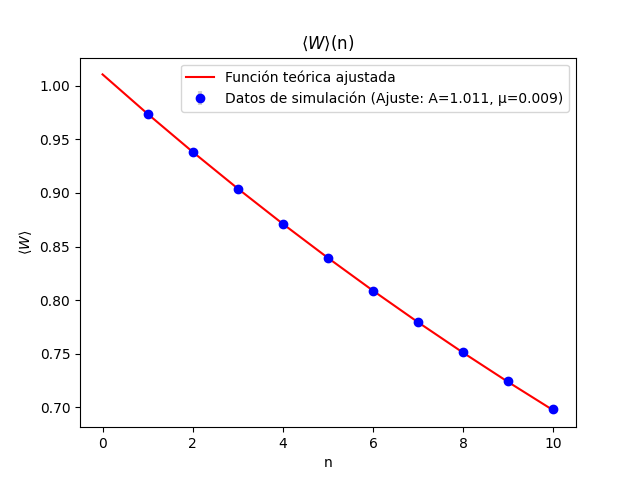
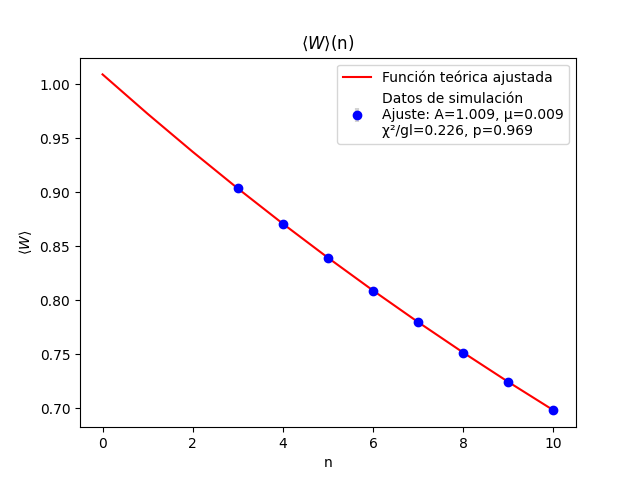
Perimetro_ajuste

diff --git a/Codigo_en_Python_para_graficas/perimetro.py b/Codigo_en_Python_para_graficas/perimetro.py
@@ -3,6 +3,8 @@ import matplotlib.pyplot as plt
 import pandas as pd
 import os
 from scipy.optimize import curve_fit
+from scipy.stats import chi2
+from datetime import datetime
 
 # Definir el directorio donde se encuentran los archivos
 directorio = 'Resultados_simulacion/MAIN/0.80/PROMEDIOS-ERRORES/datos.txt.txt'
@@ -22,6 +24,95 @@ def funcion_teorica_normal(n, A, μ):
     """Función teórica en escala normal: A * exp(-μ * 4n)"""
     return A * np.exp(-μ * 4 * n)
 
+# Función para calcular chi-cuadrado y p-valor
+def calcular_chi_cuadrado(y_obs, y_teo, errores, n_parametros):
+    """Calcula chi-cuadrado, chi-cuadrado reducido y p-valor"""
+    chi2_val = np.sum(((y_obs - y_teo) / errores) ** 2)
+    grados_libertad = len(y_obs) - n_parametros
+    chi2_reducido = chi2_val / grados_libertad
+    p_valor = 1 - chi2.cdf(chi2_val, grados_libertad)
+    return chi2_val, chi2_reducido, p_valor, grados_libertad
+
+# Función para calcular R²
+def calcular_r_cuadrado(y_obs, y_teo):
+    """Calcula el coeficiente de determinación R²"""
+    ss_res = np.sum((y_obs - y_teo) ** 2)
+    ss_tot = np.sum((y_obs - np.mean(y_obs)) ** 2)
+    return 1 - (ss_res / ss_tot)
+
+# Función para generar reporte
+def generar_reporte(n, log_wilson, error_log_wilson, logA_fit, perr_log, nu_fit, 
+                   chi2_log, chi2_red_log, p_valor_log, gl_log, archivo_salida):
+    """Genera un reporte en el formato especificado"""
+    
+    # Calcular R²
+    log_wilson_teo = funcion_teorica_log(n, logA_fit, nu_fit)
+    r_cuadrado = calcular_r_cuadrado(log_wilson, log_wilson_teo)
+    
+    # Calcular incertidumbre promedio
+    incertidumbre_promedio = np.mean(error_log_wilson)
+    
+    # Determinar interpretación del ajuste
+    if chi2_red_log >= 3:
+        calidad_ajuste = "DEFICIENTE (χ²/ν ≥ 3)"
+        significancia = "NO es estadísticamente significativo (p ≤ 0.05)"
+    elif chi2_red_log >= 2:
+        calidad_ajuste = "REGULAR (2 ≤ χ²/ν < 3)"
+        significancia = "NO es estadísticamente significativo (p ≤ 0.05)" if p_valor_log <= 0.05 else "estadísticamente significativo (p > 0.05)"
+    elif chi2_red_log >= 1:
+        calidad_ajuste = "BUENO (1 ≤ χ²/ν < 2)"
+        significancia = "NO es estadísticamente significativo (p ≤ 0.05)" if p_valor_log <= 0.05 else "estadísticamente significativo (p > 0.05)"
+    else:
+        calidad_ajuste = "EXCELENTE (χ²/ν < 1)"
+        significancia = "estadísticamente significativo (p > 0.05)"
+    
+    # Crear contenido del reporte
+    contenido = f"""============================================================
+
+────────────────────────────────────────────────────────────
+ARCHIVO ANALIZADO: {os.path.basename(directorio)}
+FECHA: {datetime.now().strftime('%Y-%m-%dT%H:%M:%S')}
+────────────────────────────────────────────────────────────
+
+--- CONTENIDO DEL ARCHIVO ORIGINAL ---
+Formato: N  log(MEDIA_N)  ERR(log(MEDIA_N))
+"""
+    # Añadir datos originales
+    for i in range(len(n)):
+        contenido += f"{int(n[i])}\t{log_wilson[i]:.10f}\t{error_log_wilson[i]:.10f}\n"
+    
+    contenido += f"""────────────────────────────────────────
+
+N_puntos: {len(n)}
+R²: {r_cuadrado:.8f}
+Pendiente (σ): {nu_fit:.8f}
+Error de la pendiente: {perr_log[1]:.8f}
+
+--- PARÁMETROS DEL CHI-CUADRADO ---
+χ²: {chi2_log:.8f}
+χ² reducido (χ²/ν): {chi2_red_log:.8f}
+Grados de libertad (ν): {gl_log}
+Valor p: {p_valor_log:.8f}
+
+--- PARÁMETROS DEL AJUSTE ---
+log(A): {logA_fit:.8f} ± {perr_log[0]:.8f}
+A: {np.exp(logA_fit):.8f}
+Incertidumbre promedio de los datos: {incertidumbre_promedio:.8f}
+
+--- INTERPRETACIÓN DEL AJUSTE ---
+El ajuste es {calidad_ajuste}
+El ajuste {significancia}
+
+============================================================
+
+"""
+    
+    # Escribir en el archivo (modo append)
+    with open(archivo_salida, 'a', encoding='utf-8') as f:
+        f.write(contenido)
+    
+    return contenido
+
 # Genero una lista de valores de n desde el 0 hasta el 10
 ENE = list(range(0, 11))  # Extiendo hasta 10 para incluir el máximo n
 
@@ -32,8 +123,18 @@ popt_log, pcov_log = curve_fit(funcion_teorica_log, n, log_wilson, sigma=error_l
 logA_fit, nu_fit = popt_log
 perr_log = np.sqrt(np.diag(pcov_log))  # Errores de los parámetros
 
+# Calculo valores teóricos para el ajuste logarítmico
+log_wilson_teo = funcion_teorica_log(n, *popt_log)
+
+# Calculo chi-cuadrado para ajuste logarítmico
+chi2_log, chi2_red_log, p_valor_log, gl_log = calcular_chi_cuadrado(
+    log_wilson, log_wilson_teo, error_log_wilson, len(popt_log)
+)
+
 # Ploteo los datos con error bars en escala logarítmica
-plt.errorbar(n, log_wilson, yerr=error_log_wilson, fmt='o', label=f'Datos de simulación (Ajuste: log(A)={logA_fit:.3f}, μ={nu_fit:.3f})', color='blue', ecolor='lightgray', elinewidth=3, capsize=0)
+plt.errorbar(n, log_wilson, yerr=error_log_wilson, fmt='o', 
+             label=f'Datos de simulación\nAjuste: log(A)={logA_fit:.3f}, μ={nu_fit:.3f}\nχ²/gl={chi2_red_log:.3f}, p={p_valor_log:.3f}', 
+             color='blue', ecolor='lightgray', elinewidth=3, capsize=0)
 # Ploteo la función teórica ajustada
 plt.plot(ENE, funcion_teorica_log(np.array(ENE), *popt_log), label='Función teórica ajustada', color='red')
 # Añado etiquetas y leyenda
@@ -44,6 +145,8 @@ plt.legend(loc='upper right')
 # Guardo la gráfica
 if not os.path.exists('Graficas'):
     os.makedirs('Graficas')
+if not os.path.exists('Graficas/MAIN/0.80'):
+    os.makedirs('Graficas/MAIN/0.80')
 plt.savefig('Graficas/MAIN/0.80/perimetro_log.png')
 plt.show()  # Muestro la gráfica después de guardarla
 
@@ -56,8 +159,18 @@ popt_normal, pcov_normal = curve_fit(funcion_teorica_normal, n, wilson_normal, s
 A_fit, nu_fit_normal = popt_normal
 perr_normal = np.sqrt(np.diag(pcov_normal))  # Errores de los parámetros
 
+# Calculo valores teóricos para el ajuste normal
+wilson_normal_teo = funcion_teorica_normal(n, *popt_normal)
+
+# Calculo chi-cuadrado para ajuste normal
+chi2_normal, chi2_red_normal, p_valor_normal, gl_normal = calcular_chi_cuadrado(
+    wilson_normal, wilson_normal_teo, error_wilson_normal, len(popt_normal)
+)
+
 # Ploteo los datos con error bars en escala normal
-plt.errorbar(n, wilson_normal, yerr=error_wilson_normal, fmt='o', label=f'Datos de simulación (Ajuste: A={A_fit:.3f}, μ={nu_fit_normal:.3f})', color='blue', ecolor='lightgray', elinewidth=3, capsize=0)
+plt.errorbar(n, wilson_normal, yerr=error_wilson_normal, fmt='o', 
+             label=f'Datos de simulación\nAjuste: A={A_fit:.3f}, μ={nu_fit_normal:.3f}\nχ²/gl={chi2_red_normal:.3f}, p={p_valor_normal:.3f}', 
+             color='blue', ecolor='lightgray', elinewidth=3, capsize=0)
 # Ploteo la función teórica ajustada
 plt.plot(ENE, funcion_teorica_normal(np.array(ENE), *popt_normal), label='Función teórica ajustada', color='red')
 # Añado etiquetas y leyenda
@@ -69,6 +182,40 @@ plt.legend(loc='upper right')
 plt.savefig('Graficas/MAIN/0.80/perimetro.png')
 plt.show()  # Muestro la gráfica después de guardarla
 
-# Imprimo los resultados
-print(f"Ajuste en escala logarítmica: log(A) = {logA_fit} ± {perr_log[0]}, μ = {nu_fit} ± {perr_log[1]}")
-print(f"Ajuste en escala normal: A = {A_fit} ± {perr_normal[0]}, μ = {nu_fit_normal} ± {perr_normal[1]}")
+# Generar reporte
+directorio_base = os.path.dirname(directorio)
+archivo_reporte = os.path.join(directorio_base, 'reporte_analisis.txt')
+
+# Generar el reporte para el ajuste logarítmico (como en tu ejemplo)
+reporte = generar_reporte(n, log_wilson, error_log_wilson, logA_fit, perr_log, nu_fit,
+                         chi2_log, chi2_red_log, p_valor_log, gl_log, archivo_reporte)
+
+print(f"Reporte guardado en: {archivo_reporte}")
+print("El reporte se ha añadido al archivo existente (si existía)")
+
+# Imprimo los resultados detallados
+print("=" * 60)
+print("RESULTADOS DE LOS AJUSTES")
+print("=" * 60)
+
+print("\n--- AJUSTE EN ESCALA LOGARÍTMICA ---")
+print(f"log(A) = {logA_fit:.6f} ± {perr_log[0]:.6f}")
+print(f"μ = {nu_fit:.6f} ± {perr_log[1]:.6f}")
+print(f"χ² = {chi2_log:.6f}")
+print(f"Grados de libertad = {gl_log}")
+print(f"χ² reducido = {chi2_red_log:.6f}")
+print(f"p-valor = {p_valor_log:.6f}")
+
+print("\n--- AJUSTE EN ESCALA NORMAL ---")
+print(f"A = {A_fit:.6f} ± {perr_normal[0]:.6f}")
+print(f"μ = {nu_fit_normal:.6f} ± {perr_normal[1]:.6f}")
+print(f"χ² = {chi2_normal:.6f}")
+print(f"Grados de libertad = {gl_normal}")
+print(f"χ² reducido = {chi2_red_normal:.6f}")
+print(f"p-valor = {p_valor_normal:.6f}")
+
+# Mostrar también el reporte en consola
+print("\n" + "=" * 60)
+print("REPORTE GENERADO:")
+print("=" * 60)
+print(reporte)

diff --git a/Codigo_en_Python_para_graficas/perimetroChi.py b/Codigo_en_Python_para_graficas/perimetroChi.py
@@ -1,0 +1,101 @@
+import numpy as np
+import matplotlib.pyplot as plt
+from scipy.optimize import curve_fit
+import os
+
+# Configuración de directorios
+input_dir = "input"
+output_dir = "output"
+
+# Asegurar que existen los directorios
+os.makedirs(input_dir, exist_ok=True)
+os.makedirs(output_dir, exist_ok=True)
+
+# Leer datos del archivo
+file_path = os.path.join(input_dir, "datos.txt.txt")
+try:
+    data = np.loadtxt(file_path)
+    n = data[:, 0]
+    logW = data[:, 1]
+    error_logW = data[:, 2]
+    
+    print("Datos cargados correctamente:")
+    print(f"n: {n}")
+    print(f"logW: {logW}")
+    print(f"error_logW: {error_logW}")
+    
+except Exception as e:
+    print(f"Error al leer el archivo: {e}")
+    exit()
+
+# Calcular n²
+n2 = n**2
+
+# Función para el ajuste lineal
+def linear_func(x, a, b):
+    return a * x + b
+
+# Realizar el ajuste con pesos (inversos de los errores)
+popt, pcov = curve_fit(linear_func, n2, logW, sigma=error_logW, absolute_sigma=True)
+a, b = popt
+a_err, b_err = np.sqrt(np.diag(pcov))
+
+print(f"\nResultados del ajuste:")
+print(f"Pendiente (σ) = {a:.6f} ± {a_err:.6f}")
+print(f"Ordenada en origen (logA) = {b:.6f} ± {b_err:.6f}")
+
+# Calcular χ²
+logW_pred = linear_func(n2, a, b)
+chi2 = np.sum(((logW - logW_pred) / error_logW)**2)
+chi2_red = chi2 / (len(logW) - 2)  # grados de libertad = n - 2 parámetros
+
+print(f"\nχ² = {chi2:.4f}")
+print(f"χ² reducido = {chi2_red:.4f}")
+
+# Calcular R²
+ss_res = np.sum((logW - logW_pred)**2)
+ss_tot = np.sum((logW - np.mean(logW))**2)
+r2 = 1 - (ss_res / ss_tot)
+
+print(f"R² = {r2:.4f}")
+
+# Crear la gráfica
+plt.figure(figsize=(10, 6))
+plt.errorbar(n2, logW, yerr=error_logW, fmt='o', capsize=5, label='Datos experimentales', markersize=6)
+
+# Crear la línea de ajuste
+n2_fit = np.linspace(min(n2), max(n2), 100)
+logW_fit = linear_func(n2_fit, a, b)
+plt.plot(n2_fit, logW_fit, 'r-', label=f'Ajuste lineal: log(W) = ({b:.4f} ± {b_err:.4f}) + ({a:.4f} ± {a_err:.4f})·n²')
+
+plt.xlabel('n²', fontsize=12)
+plt.ylabel('log(W)', fontsize=12)
+plt.title('Ajuste lineal: log(W) vs n²', fontsize=14)
+plt.grid(True, alpha=0.3)
+plt.legend()
+
+# Añadir información del ajuste en el gráfico
+textstr = f'$R^2 = {r2:.4f}$\n$\chi^2 = {chi2:.2f}$\n$\chi^2/v = {chi2_red:.2f}$'
+props = dict(boxstyle='round', facecolor='wheat', alpha=0.5)
+plt.gca().text(0.05, 0.95, textstr, transform=plt.gca().transAxes, fontsize=10,
+               verticalalignment='top', bbox=props)
+
+# Guardar la gráfica
+output_path = os.path.join(output_dir, "ajuste_lineal_logW_vs_n2.png")
+plt.savefig(output_path, dpi=300, bbox_inches='tight')
+plt.show()
+
+print(f"\nGrÁfica guardada en: {output_path}")
+
+# Guardar resultados en un archivo
+results_path = os.path.join(output_dir, "resultados_ajuste.txt")
+with open(results_path, 'w') as f:
+    f.write("RESULTADOS DEL AJUSTE LINEAL: log(W) vs n²\n")
+    f.write("============================================\n")
+    f.write(f"Pendiente (σ) = {a:.6f} ± {a_err:.6f}\n")
+    f.write(f"Ordenada en origen (logA) = {b:.6f} ± {b_err:.6f}\n")
+    f.write(f"χ² = {chi2:.4f}\n")
+    f.write(f"χ² reducido = {chi2_red:.4f}\n")
+    f.write(f"R² = {r2:.4f}\n")
+
+print(f"Resultados guardados en: {results_path}")
